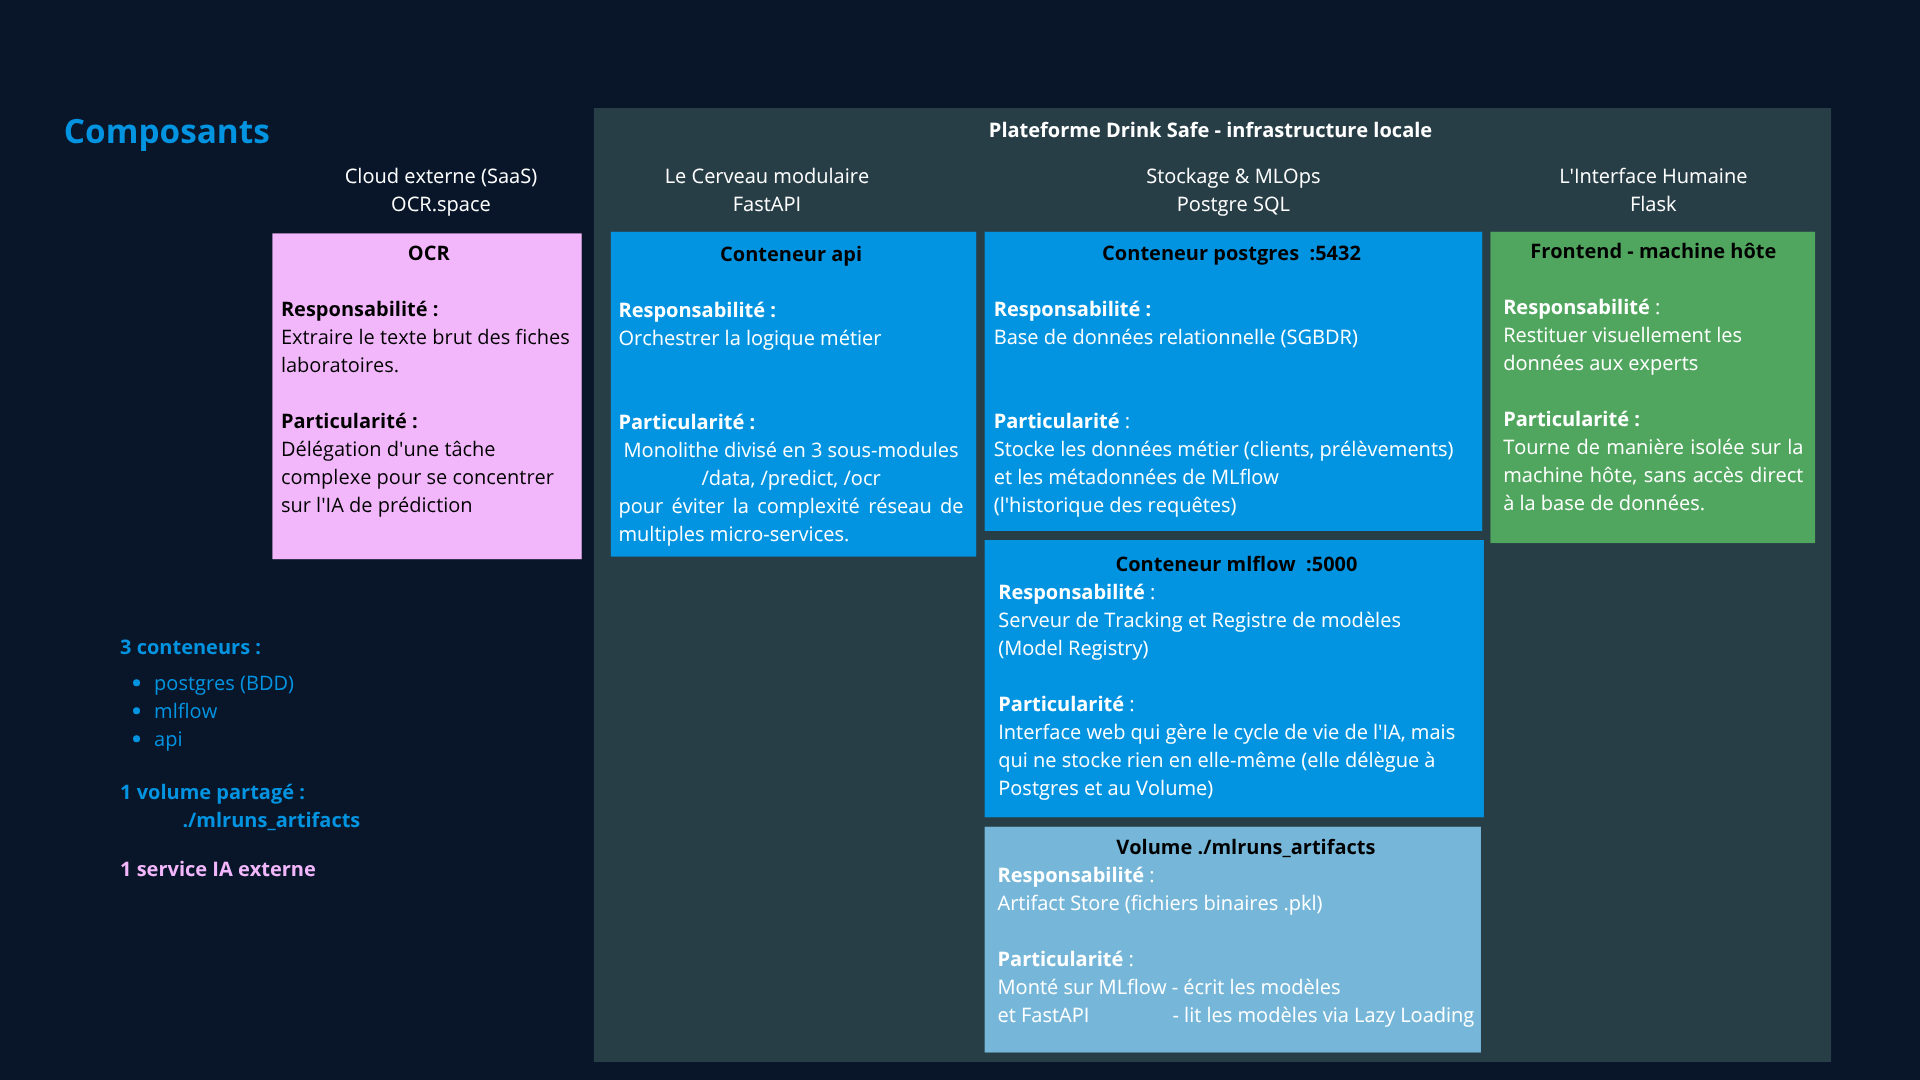
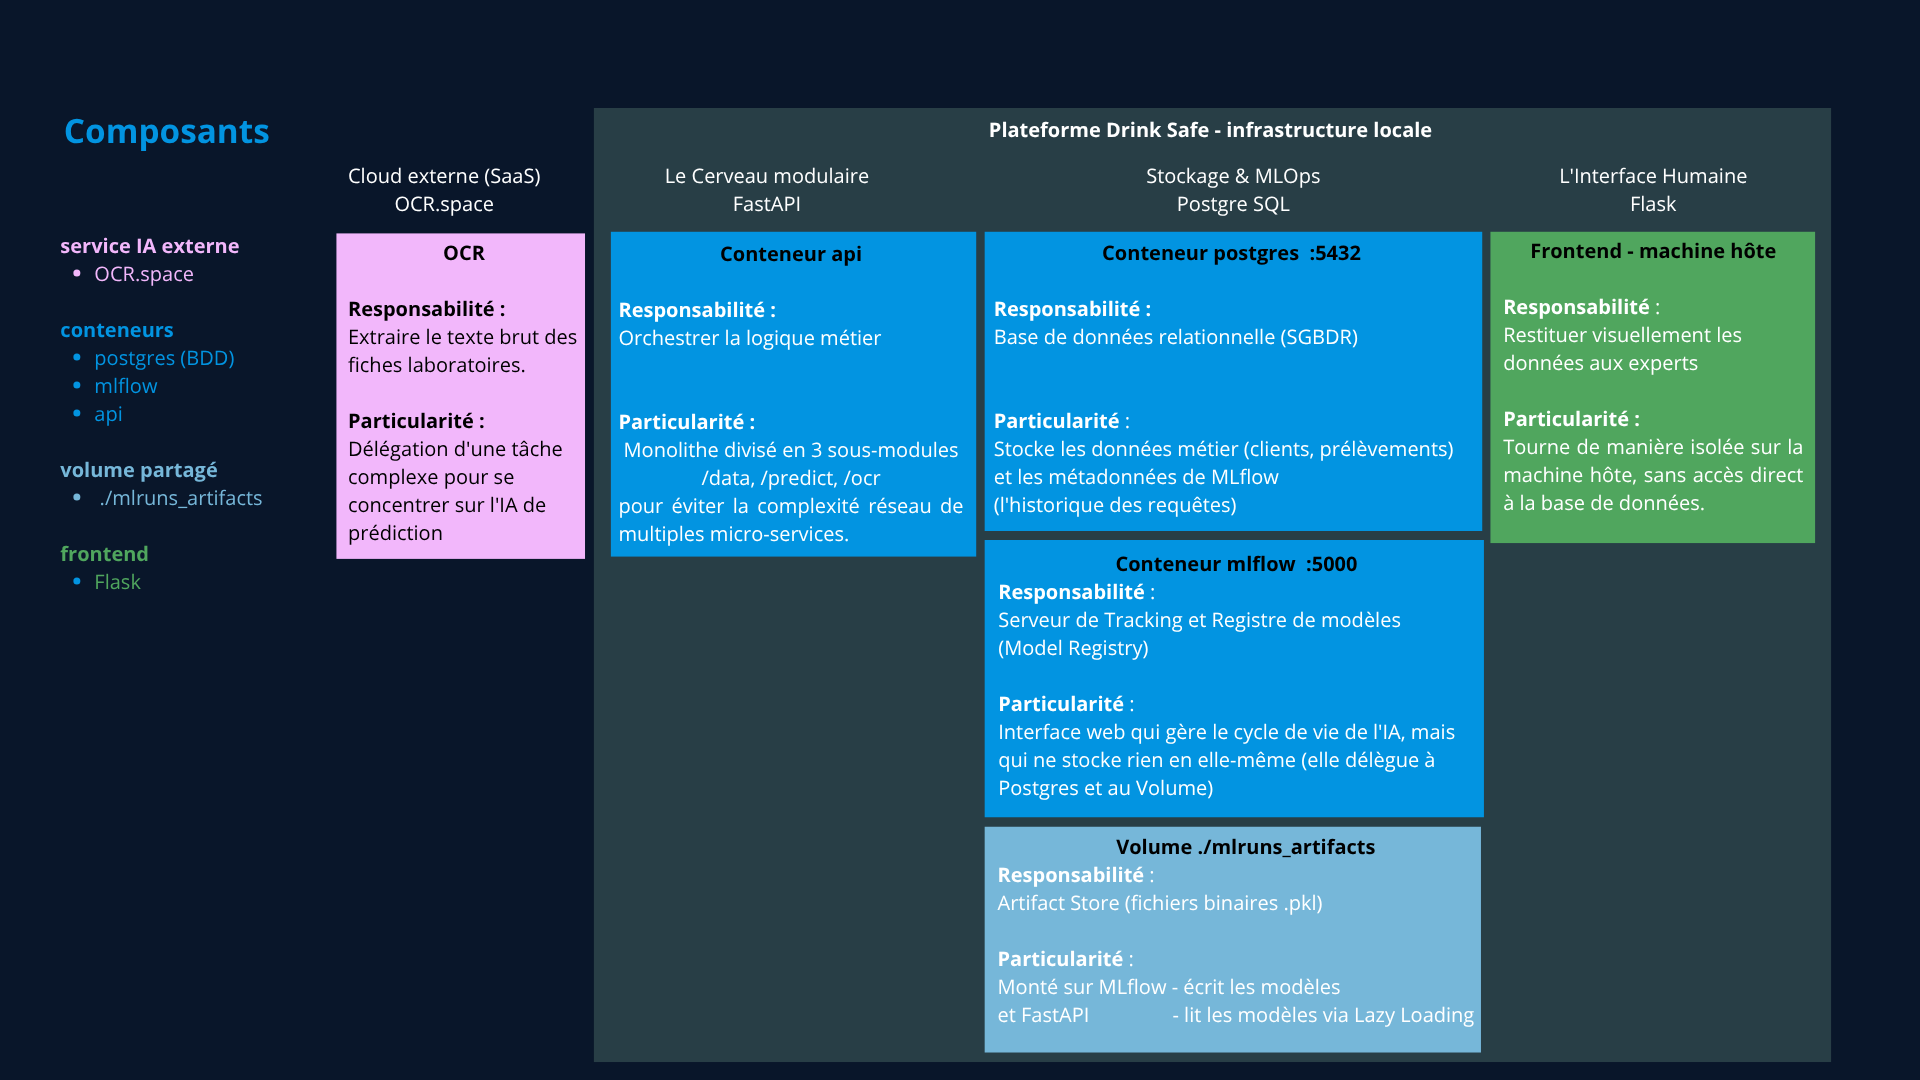
update C 17 owasp

diff --git a/E4.md b/E4.md
@@ -80,15 +80,15 @@ production et de qualité.</blockquote>
 
 La production technique a été pilotée selon les standards Agile en priorisant les composants selon leur niveau de risque.
 
-- Création et ise à jour d'un tello
+- Création et mise à jour d'un trello
 - Mise en commun des documents de réflexion et de planifiction sur google drive
-- Découpage préalable du travail à réaliser:
-    1. Analse des besoins métier
-    2. User stories → capabilities
+- Découpage préalable du travail à réaliser en 6 étapes :
+    1. Analyse des besoins métier
+    2. Traduction des **user stories** en **capabilities**
     3. Découpage en composants
     4. Definition de l'architecture voulue
     5. Choix de la stack technique
-    6. Schéma → backlog
+    6. Réalisatin du schéma d'architecture et décomposition en backlog
 - Mise en commun du code sur la forge [github](https://github.com/bruno-coulet/waterflow)
 - Tenue de réunions d'équipe régulière pour :
     - mettre en commun le travail de veille et de développement
@@ -107,20 +107,53 @@ Pour livrer la plateforme, j'ai suivi la méthodologie suivante : *MVP First -> 
 ---
 
 ## C17. Développer les composants techniques et les interfaces d’une application  
-en utilisant les outils et langages de
-programmation adaptés et en respectant les spécifications fonctionnelles et techniques, les standards et normes
+<blockquote>en utilisant les outils et langages de programmation adaptés et en respectant les spécifications fonctionnelles et techniques, les standards et normes
 d’accessibilité, de sécurité et de gestion des données en vigueur dans le but de répondre aux besoins fonctionnels
-identifiés.
+identifiés.</blockquote>
 
-Le développement s'est focalisé sur la sécurité et le respect strict du RGPD par *Privacy by Design*.
+---
+
+Le développement s'est focalisé sur la sécurité et le respect strict du **RGPD** par **Privacy by Design**
 
 ### Cloisonnement RGPD (Multi-Tenancy)
-Lorsqu'un client de la collectivité s'authentifie, l'API FastAPI intercepte sa `X-API-Key` dans le middleware, identifie l'UUID du client, et applique un filtre strict en base de données. La clause SQL `WHERE client_id = :id` garantit qu'un client ne verra jamais les prélèvements d'une autre structure.
+Lorsqu'un client de la collectivité s'authentifie, l'API FastAPI :
+- intercepte sa `X-API-Key` dans le middleware
+- identifie l'UUID du client
+- applique un filtre strict en base de données.   
+
+La clause SQL `WHERE client_id = :id` garantit qu'un client ne verra jamais les prélèvements d'une autre structure.
 
 ### Développement des Interfaces
-J'ai conçu les IHM en utilisant Flask et des templates HTML/CSS (Jinja2). Cette interface comprend des formulaires interactifs pour la prédiction dynamique (avec curseurs pour les valeurs de pH, turbidité, etc.), le téléchargement documentaire pour l'OCR, et des tableaux de bord de supervision de données pour les analystes.
+J'ai conçu les IHM en utilisant Flask et des templates HTML/CSS (Jinja2). Cette interface comprend :
+- des formulaires interactifs pour la prédiction dynamique (avec curseurs pour les valeurs de pH, turbidité, etc.)
+- le téléchargement documentaire pour l'OCR
+- des tableaux de bord de supervision de données pour les analystes.
 
 *capture d'écran du Frontend Flask (Tableau de bord ou page de test avec curseurs)*
+
+
+### Conformité OWASP
+
+'architecture  de la plateforme (API, bases de données, gestion réseau) répond concrètement à plusieurs failles majeures du Top 10 OWASP des APIs :
+
+**1. Failles d'authentification et de contrôle d'accès (Broken Authentication & BOLA)**
+*   **Protection des secrets :** Le système ne stocke jamais les clés API en clair. Elles sont générées de manière cryptographiquement forte (par exemple via `secrets.token_urlsafe(32)`) puis **hachées en base de données** avec un sel (via SHA-256 ou bcrypt). En cas de compromission (fuite) de la base de données PostgreSQL, les jetons des clients restent illisibles et protégés.
+*   **Isolation des données (Multi-Tenancy) :** Au lieu de faire confiance au client, l'API impose une séparation stricte des périmètres directement dans les requêtes SQL (avec la clause `WHERE client_id = :id_client_authentifie`). Cela empêche un attaquant de manipuler les identifiants pour lire les prélèvements d'un autre client (faille appelée *Broken Object Level Authorization* ou BOLA).
+
+**2. Manque de journalisation et de supervision (Insufficient Logging & Monitoring)**
+*   La plateforme répond parfaitement à cette faille en implémentant un *Audit Trail* via la table `action_logs` qui trace chaque appel à l'API (adresse IP anonymisée, route HTTP, code statut et temps de réponse).
+*   De plus, lere middleware de journalisation **anonymise la clé API** avant de l'écrire en base de données. cela évite d'introduire une vulnérabilité où les logs exposeraient les mots de passe ou les clés en clair.
+*   L'intégration de Prometheus et Grafana vient couronner cette recommandation en permettant la détection en temps réel des attaques ou des pannes via les métriques RED (Rate, Errors, Duration).
+
+**3. Vulnérabilités réseau internes (Security Misconfiguration / SSRF)**
+*   Le problème réseau concernant le **DNS Rebinding** (l'erreur 403 de MLflow) est typiquement lié aux configurations de sécurité internes.
+*   Les serveurs modernes bloquent les requêtes internes dont l'en-tête virtuel (`Host`) est suspect pour éviter qu'un pirate ne rebondisse sur le réseau interne privé. La solution implémentée (le patch de la bibliothèque `requests` pour injecter le bon en-tête `Host` vers `mlflow:5000`) permet aux conteneurs de communiquer en toute légitimité, sans avoir eu besoin de désactiver les barrières de sécurité natives du serveur MLflow.
+
+**4. Interfaçage avec des services tiers (OCR.space)**
+*   Un système sécurisé doit aussi rester disponible lorsque le service externe est attaqué ou tombe en panne.   
+Le mécanisme de "fallback gracieux" (interception des *Timeouts* de l'API `api.ocr.space`) empêche un ralentissement externe de faire crasher l'API FastAPI ou l'interface client Flask.
+
+En résumé, l'approche *Privacy by Design* et *Security by Design* adoptée sur la plateforme Drink safe correspond aux standards de l'OWASP.
 
 ---
 ---